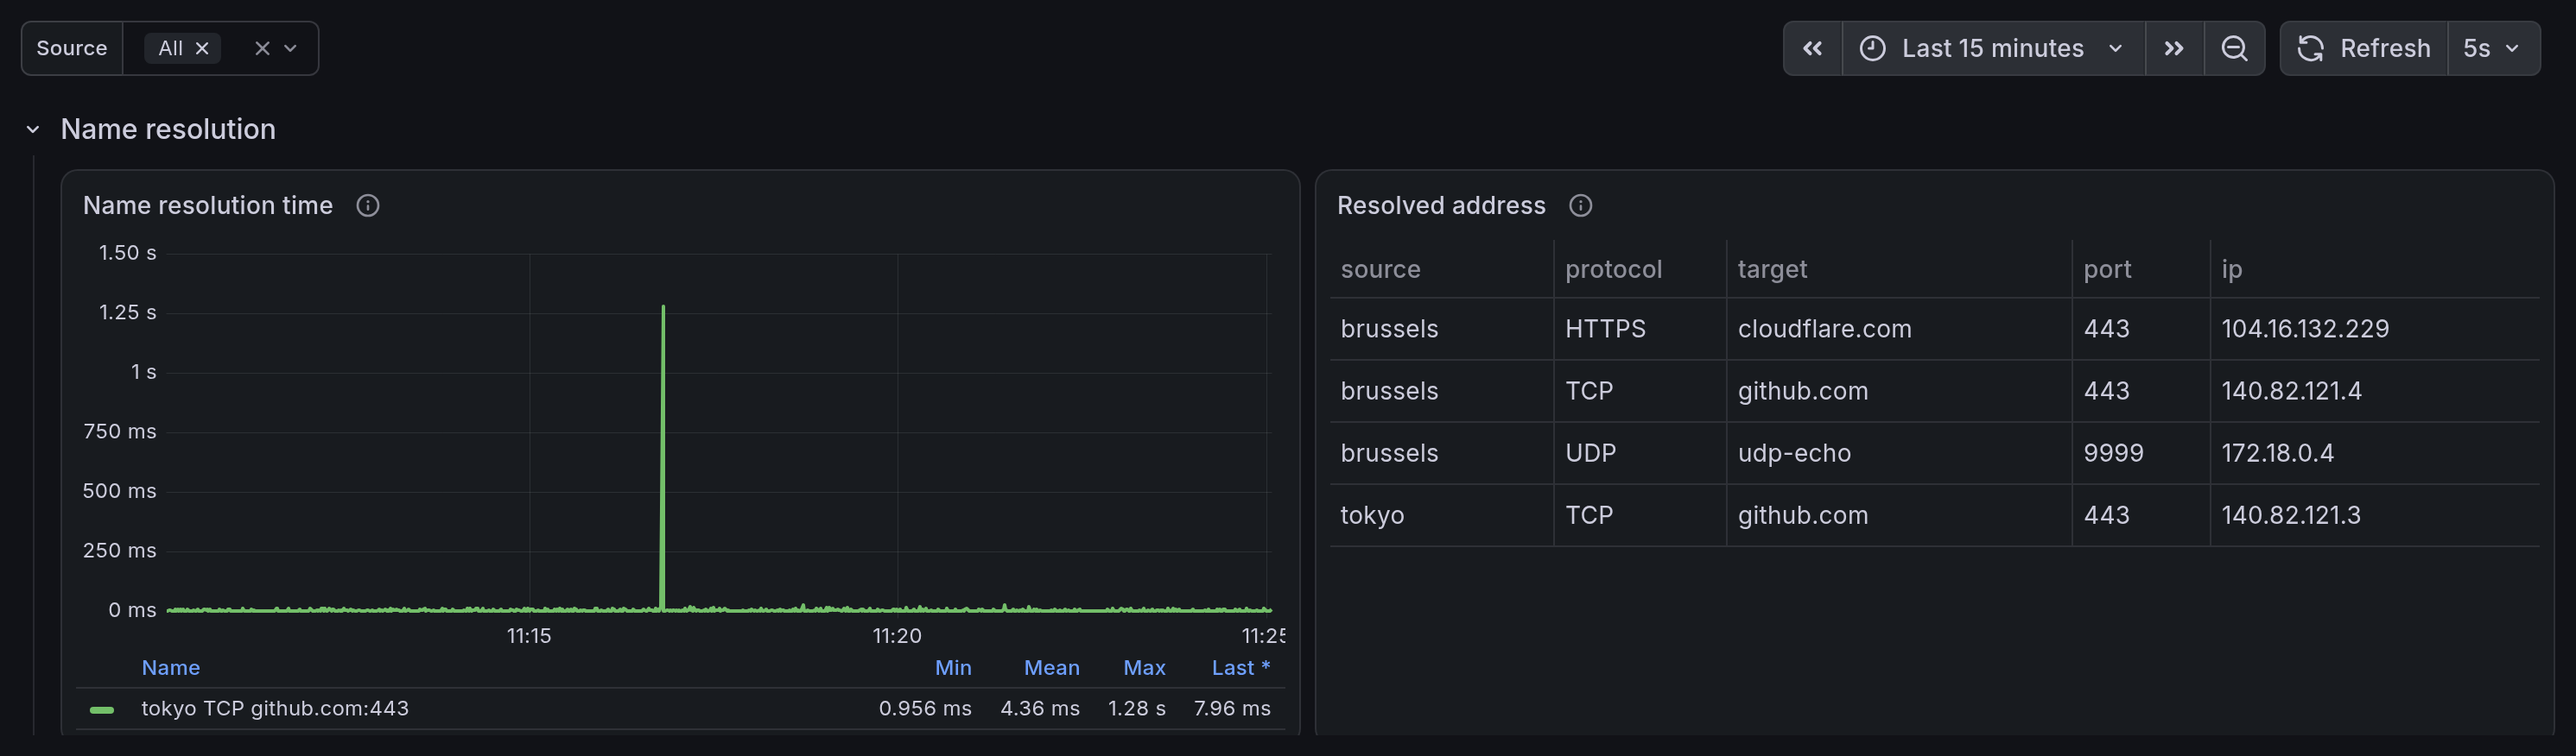
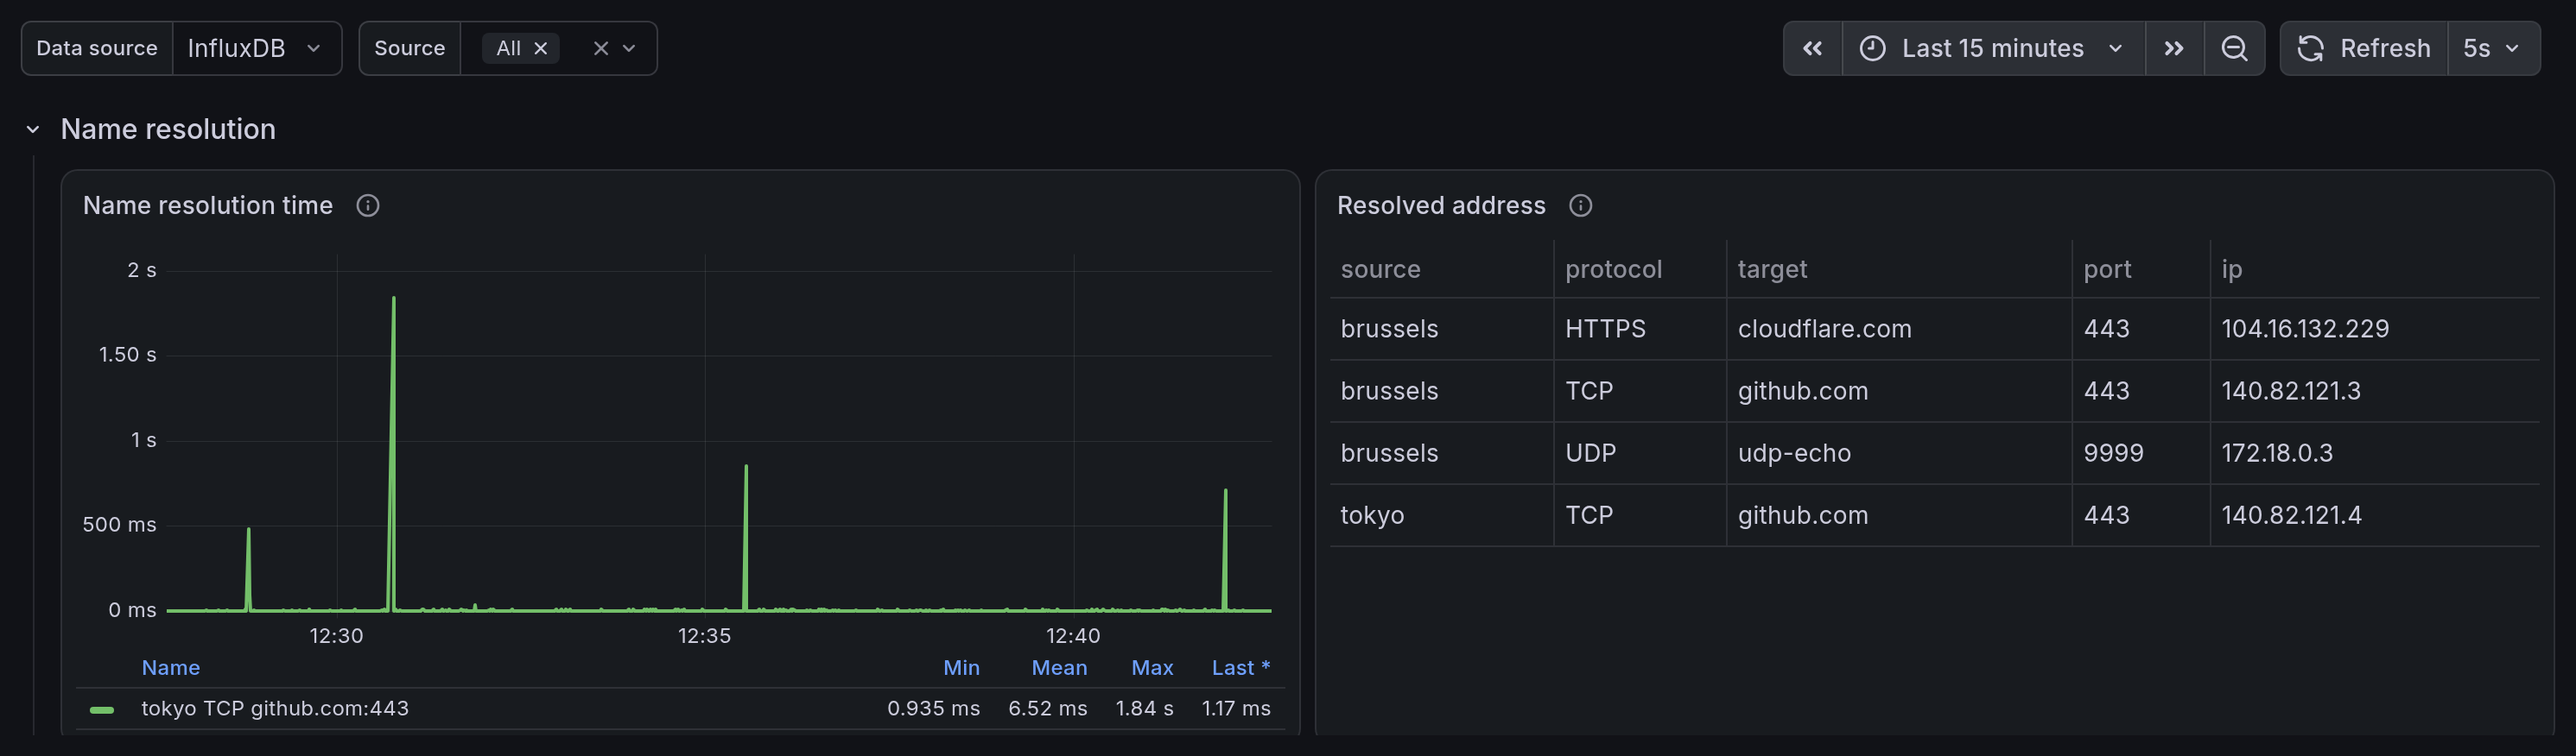
add a data source dropdown instead of hard-coded UUIDs

diff --git a/CHANGELOG.md b/CHANGELOG.md
@@ -74,6 +74,7 @@
 - docs: `docs/observability` now runs tcping itself. The Compose stack starts nine tcping containers alongside Alloy, Prometheus, InfluxDB and Grafana, covering TCP, HTTP(S) and UDP from two source labels and sending every run to both backends, with one of them acting as the `--udp-server` the UDP probes talk to. The graphs therefore have something in them as soon as the stack is up
 - docs: split the Grafana dashboard in `docs/observability` into `tcping (InfluxDB)` and `tcping (Alloy)`, holding the same panels in the same places and linking to each other, instead of one dashboard with the Prometheus copies buried in a trailing row. Flux and PromQL cannot share a panel, so which dashboard to open is simply which way the run was sent. Each dashboard's **Source** dropdown now reads from its own data source, so an Alloy-only run is no longer missing from the list
 - docs: make the dashboards readable with several runs on them: the probe result and the UDP reply panels are drawn as state timelines rather than piling stepped lines into one block of colour, the tables no longer cut off their last column, the certificate panel says `83 days` instead of `11.9 weeks`, and the legends name the two ends of a streak, the two probe counters and the four latency stats apart
+- docs: both dashboards in `docs/observability` now read their data source from a **Data source** dropdown and the InfluxDB one its bucket from a `bucket` variable, instead of naming the playground's own. Importing either into an existing Grafana is now a paste and a click, with no JSON to edit, and the same file is still what the stack provisions
 - docs: add a demo GIF for streaming the JSON output to a collector. It and the UDP one now stack their two panes instead of placing them side by side
 - docs: add demo GIFs for `--failures-only`, and for `--no-color` and `--no-stats` together. The failures one stops the UDP server halfway through the run, so it shows the silence while the probes are being answered and the summary still counting the probes that were never printed. The plain one presses the **Enter** key mid-run, which is the only place the statistics-on-demand behaviour is shown
 - build: `make gifs` only re-records the tapes that changed. The binary it records with is a phony target, which used to mark every GIF out of date, so a single tape edit re-recorded all of them. Use `make gifs -B` to force the lot after an output change

diff --git a/docs/observability/README.md b/docs/observability/README.md
@@ -295,6 +295,42 @@ token.
 The metrics and the fields are the same wherever they land, see
 [what tcping sends](#what-tcping-sends).
 
+### Taking a dashboard to your own Grafana
+
+Both dashboards read their data source from a **Data source** dropdown rather
+than naming one, so importing either into a Grafana you already have does not
+mean editing any JSON:
+
+1. Open **Dashboards**, then **New**, then **Import**.
+2. Paste the contents of `grafana/dashboards/tcping-influxdb.json`, or
+   `tcping-alloy.json` for the Prometheus one, and press **Load**.
+3. Pick a folder and press **Import**.
+
+It lands next to your existing dashboards as its own entry, without touching
+them. The **Data source** dropdown at the top then picks which of your
+InfluxDB, or Prometheus, servers to read.
+
+Two things to know:
+
+- The InfluxDB dashboard reads the bucket name from a `bucket` variable,
+  which is set to `tcping`. If your bucket is called something else, change it
+  once under **Dashboard settings**, then **Variables**, then **bucket**.
+- Importing only one of the two leaves the link at the top pointing at a
+  dashboard you do not have. Import both, or delete the link under
+  **Dashboard settings**, then **Links**.
+
+To lift single panels into a dashboard you already have rather than importing
+the whole thing, import it first, then use a panel's menu, **Copy**, and
+**Paste panel** on the other dashboard.
+
+> [!IMPORTANT]
+> The InfluxDB dashboard's queries are written in **Flux**, so its data source
+> has to be an InfluxDB **v2** one with the query language set to Flux.
+> tcping writes happily to InfluxDB **v3**, which speaks the same line
+> protocol, but v3 dropped Flux, so the panels come up empty against it and
+> the queries would have to be rewritten in SQL. Until that dashboard exists,
+> v3 users are better served by the Alloy and Prometheus side.
+
 ## Nothing is showing up
 
 - Check the probes are happening at all with `docker compose logs tcping-influxdb-tcp-brussels`.
